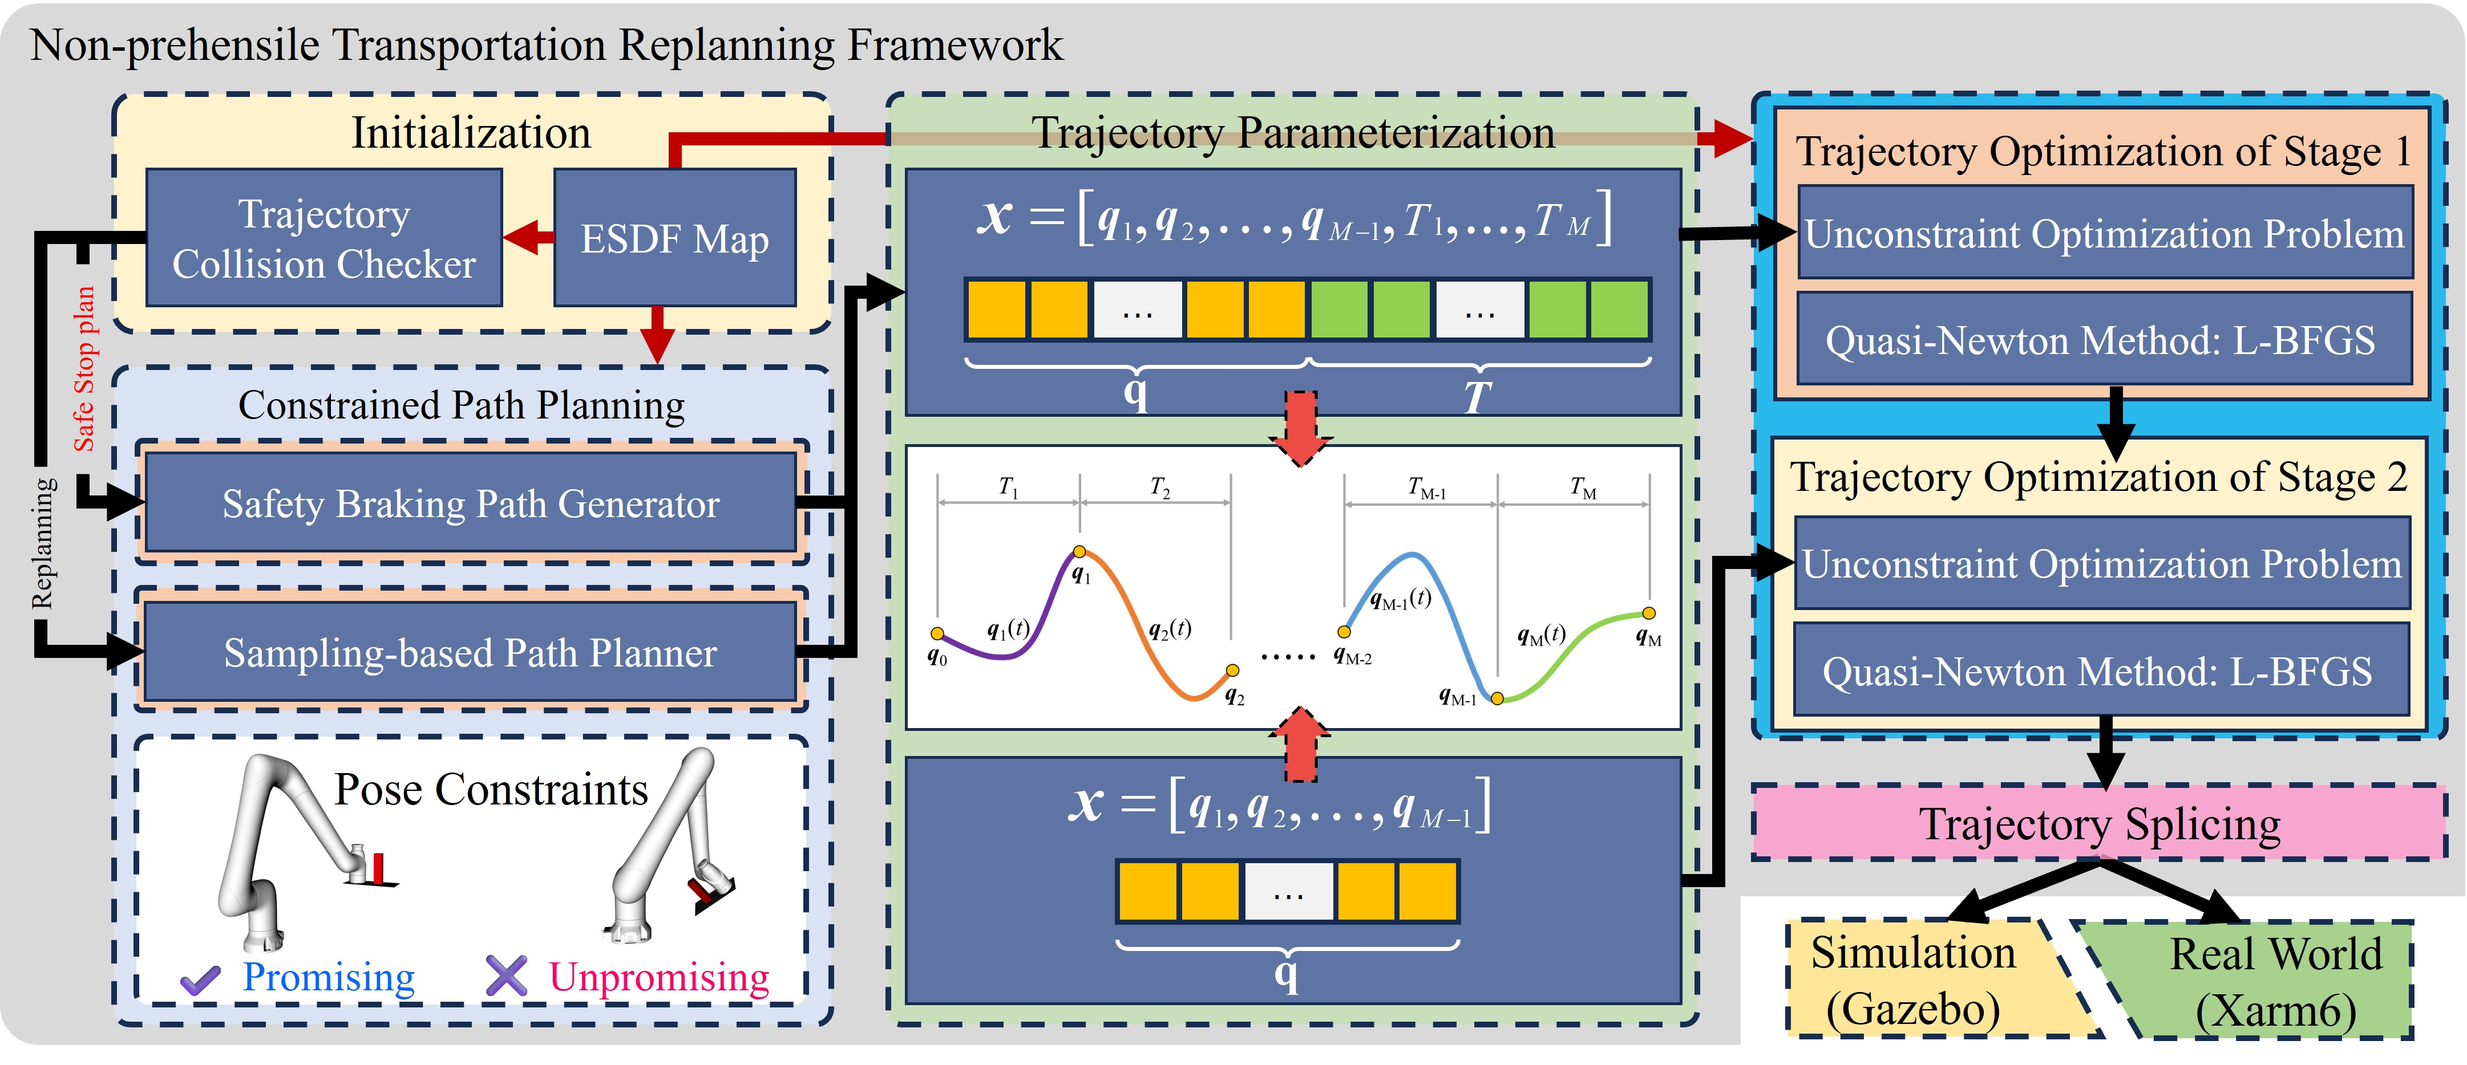
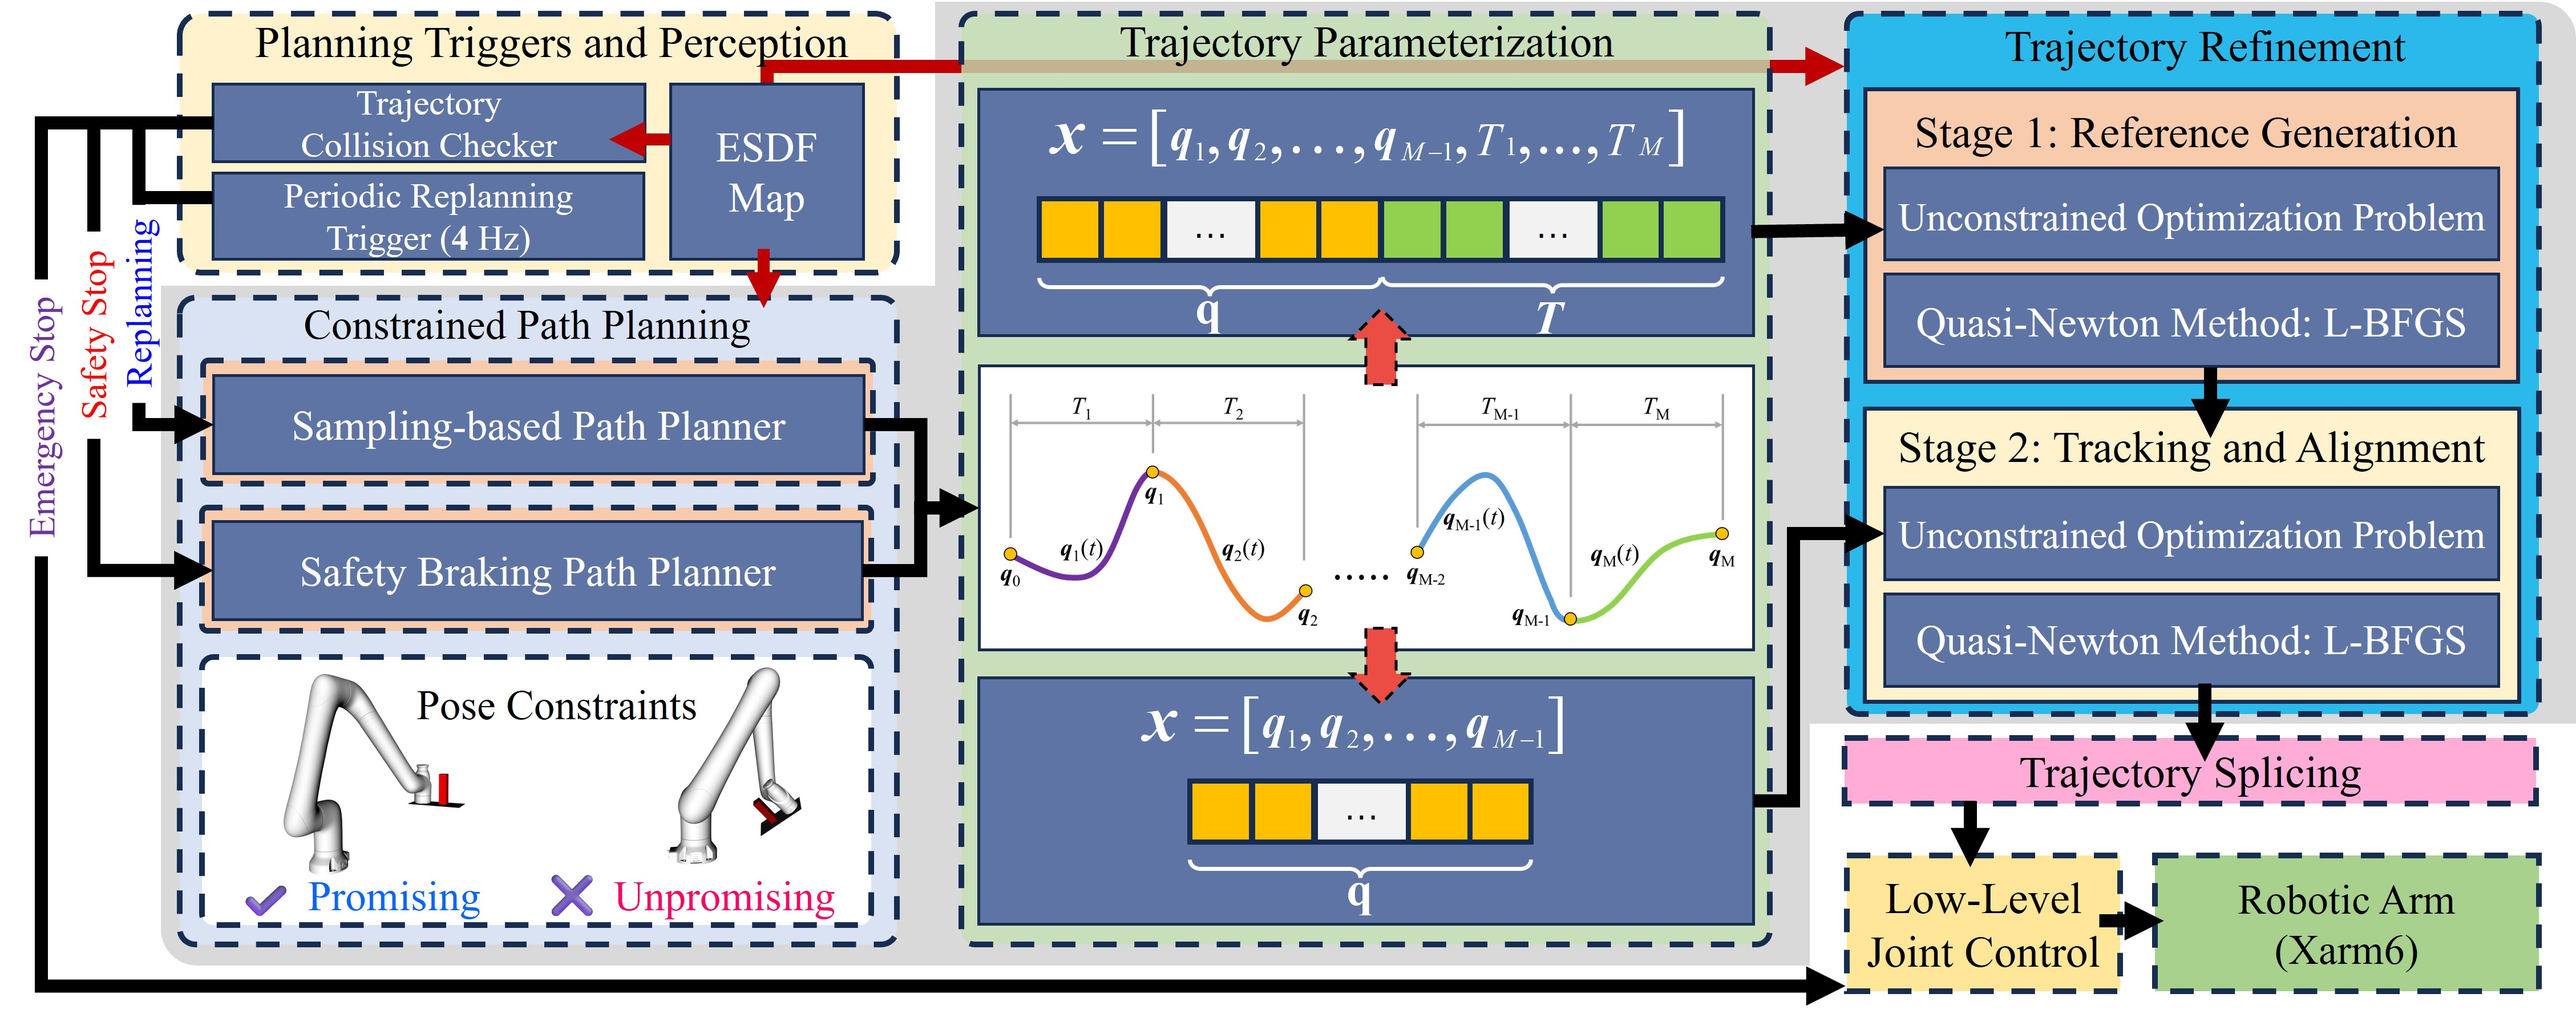
9th commit

diff --git a/index.html b/index.html
@@ -22,7 +22,7 @@
   <meta name="keywords" content="KEYWORDS SHOULD BE PLACED HERE">
   <meta name="viewport" content="width=device-width, initial-scale=1">
 
-  <title>An Efficient Trajectory-Replanning Framework for Robotic Arm Non-Prehensile Transportation</title>
+  <title>Non-Prehensile Transportation</title>
   <link rel="icon" type="image/x-icon" href="static/images/flag.jpg">
   <link href="https://fonts.googleapis.com/css?family=Google+Sans|Noto+Sans|Castoro"
   rel="stylesheet">
@@ -50,8 +50,8 @@
         <div class="columns is-centered">
           <div class="column has-text-centered">
             <h1 class="title is-1 publication-title">
-              <span>An Efficient Trajectory-Replanning Framework for</span><br>
-              <span>Robotic Arm Non-Prehensile Transportation</span>
+              <span>A Risk-Adaptive Motion Planning Framework for</span><br>
+              <span>Safe and Resilient Non-Prehensile Object Transportation</span>
             </h1>
             <!-- Paper authors -->
             <!-- <div class="is-size-5 publication-authors">
@@ -143,7 +143,7 @@
       <div class="hero-body">
         <img src="static/images/Fig00.jpg" alt="sss">
         <h2 class="subtitle has-text-justified">
-          Demonstration of our efficient trajectory-replanning framework. The robotic arm detects an unexpected obstacle during transport and quickly generates a new, safe trajectory (yellow) to the goal, replacing the colliding segment of the current trajectory (blue).
+          Demonstration of our risk-adaptive motion planning framework. The robotic arm detects an unexpected obstacle during transport and quickly generates a new, safe trajectory (yellow) to the goal, replacing the colliding segment of the current trajectory (blue).
         </h2>
       </div>
     </div>
@@ -157,7 +157,7 @@
           <h2 class="title is-3">Abstract</h2>
           <div class="content has-text-justified">
             <p>
-              Non-prehensile transportation by robotic arms is a promising approach for the service industry. Such applications require robotic arms to be reactive, safe, and flexible enough to navigate dynamic and complex environments while maintaining the transported objects' stability. However, existing limited-horizon motion control methods are often ineffective in these scenarios. This letter presents a framework for efficient trajectory replanning, enabling robotic arms to transport objects with safety and flexibility. This framework first employs a sampling-based path planner with pose constraints to generate a kinematically feasible initial trajectory, parameterized by piecewise polynomials. Subsequently, a novel optimizer refines this trajectory to enhance safety while minimizing both energy consumption and execution time. The key innovation lies in decomposing the complex dynamics-based optimization into two simpler  kinematics-based subproblems, which significantly accelerates computation. Additionally, a collision detector continuously monitors the current trajectory, ready to initiate a replan, execute a safety stop, or trigger a hardware-level emergency stop in response to imminent threats. Finally, the effectiveness and robustness of this framework are validated through extensive experiments. 
+              Non-prehensile transportation by robotic arms is a promising approach for the service industry. Such applications require robotic arms to be reactive, safe, and flexible enough to navigate dynamic and complex environments while maintaining the transported objects' stability. However, existing limited-horizon motion control methods are often ineffective in these scenarios. This letter presents a risk-adaptive motion planning framework for safe and resilient non-prehensile object transportation. This adaptability is achieved through a three-level safety mechanism that responds to time-to-collision (TTC) risk estimates with replanning, a controlled safety stop, or a hardware-level emergency stop. The former two maneuvers are powered by an efficient trajectory generator, which integrates constrained path planning, trajectory parameterization, and trajectory refinement. The key to its efficiency lies in decomposing the complex dynamics-based trajectory refinement problem into two simpler kinematics-based subproblems, which significantly accelerates computation. Furthermore, the framework incorporates a periodic replanning mechanism to proactively adapt to task-level changes. Finally, the effectiveness and resilience of this framework are validated through extensive experiments.
             </p>
           </div>
         </div>
@@ -176,7 +176,7 @@
               style="border-radius: 10px; box-shadow: 0 4px 8px rgba(0,0,0,0.1);">
           <div class="content has-text-justified">
             <p>
-              Diagram of the proposed replanning framework, including path planning, trajectory parameterization, and two-stage trajectory refinement.
+              Architecture of the risk-adaptive motion planning framework, featuring a dual-triggering mechanism (periodic and safety-driven) and a complete trajectory generation pipeline.
             </p>
           </div>
         </div>
@@ -188,7 +188,7 @@
   <section class="section">
     <div class="container is-max-desktop">
       <p class="has-text-centered is-size-6">
-        Note: All videos below are shown at their original speed (real-time) without any speed adjustments.
+        Note: All videos below are shown at their original speed (× 1) without any speed adjustments.
       </p>
       
       <!------------------------------------- 对比实验 ------------------------------------->
@@ -502,7 +502,7 @@
           <h2 class="title is-3">Conclusion</h2>
           <div class="content has-text-justified">
             <p>
-              This paper presents a holistic trajectory-replanning framework that enables safe, flexible, and efficient non-prehensile transportation. The effectiveness and robustness of the proposed framework are rigorously validated in both simulation and challenging real-world experiments. Despite its effectiveness, our method has limitations. First, the model neglects angular acceleration, which can result in stability constraint violations during aggressive motion. This risk is exacerbated by parametric uncertainties, such as an unmodeled CoM position, which can render trajectories deemed safe by the planner infeasible in practice. Additionally, the current approach faces challenges when dealing with moving obstacles, primarily for two reasons: (1) the front-end ignores the spatio‑temporal information of moving obstacles; and (2) there is no unified, time‑aware map for moving obstacles. Furthermore, the robotic arm's full autonomy is limited by its reliance on the motion-capture system. Future work will focus on developing a parameter-robust planner and a fully autonomous system to address these issues.
+              This paper presents a risk-adaptive motion planning framework that enables safe, efficient, and resilient non-prehensile object transportation. The effectiveness and resilience of this framework are rigorously validated in both simulations and real-world experiments. Despite its effectiveness, our method has limitations. First, the model neglects angular acceleration, which can result in stability constraint violations during aggressive motion. This risk is exacerbated by parametric uncertainties, such as an unmodeled CoM position, which can render trajectories deemed safe by the planner infeasible in practice. Additionally, the current approach faces challenges when dealing with moving obstacles, primarily for two reasons: (1) the front-end ignores the spatio‑temporal information of moving obstacles, and (2) there is no unified, time‑aware map for moving obstacles. Furthermore, the robotic arm's full autonomy is limited by its reliance on the motion-capture system. Future work will focus on developing a parameter-robust planner and a fully autonomous system to address these issues.
             </p>
           </div>
         </div>
